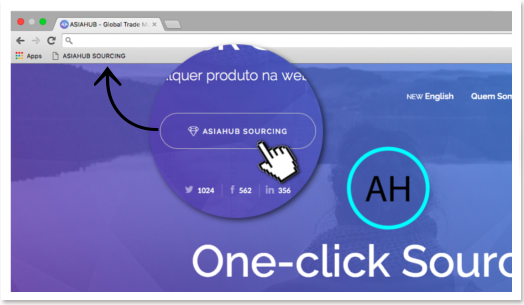
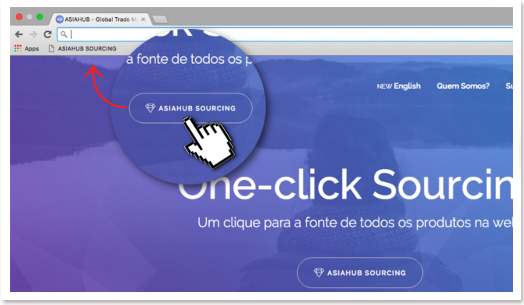
update 30/01
update 30/01

Changed region(s): [[0.0, 0.0, 0.9771, 0.7672], [0.3664, 0.7967, 0.9771, 0.9443], [0.7023, 0.2656, 0.9771, 0.3541]]

diff --git a/index.html b/index.html
@@ -137,14 +137,13 @@
       </div>
     </nav>
 
-    <!-- Hero Section
+     <!-- Hero Section
     ================================================== -->
 
     <header class="jumbotron bg-inverse text-xs-center center-vertically" role="banner">
       <div class="container">
-        <img src="img/logo_AH.png" height="170" width="170">
         <h1 class="display-3">One-click Sourcing</h1>
-        <h2 class="m-b-3">Um clique para a fonte de todos<br>os produtos na web.</h2>
+        <h2 class="m-b-3">Um clique para a fonte de todos os produtos na web!</h2>
 
         <a class="btn btn-secondary-outline m-b-1" data-redirect="false" data-type="track" data-name="Internal Link" data-properties="{&quot;destination&quot;: &quot;Drag to Bookmark Bar&quot;}" href="javascript:void(function(d,sc,e){var%20r='http://www.asiahub.hk/cform.html?cur='+e(d.location.href);setTimeout(function(){if(!window.open(r,'_blank'))location.href=r;},0);})(document,screen,encodeURIComponent);" role="button"><span class="icon-sketch"></span>ASIAHUB SOURCING</a>
 
@@ -154,14 +153,13 @@
           <li class="nav-item"><a class="nav-link" href="#"><span class="icon-linkedin"></span> 356</a></li>
         </ul>
       </div>
-      <div class="container">
-        <ul class="nav nav-inline social-share">
-          <li class="nav-item"><a class="nav-link" href="#"><span class="icon-twitter"></span> 1024</a></li>
-          <li class="nav-item"><a class="nav-link" href="#"><span class="icon-facebook"></span> 562</a></li>
-          <li class="nav-item"><a class="nav-link" href="#"><span class="icon-linkedin"></span> 356</a></li>
-        </ul>
-      </div>
-      <div class="container">
+    </header>
+
+    <!-- Feature
+    ================================================== -->
+
+    <section class="section-features text-xs-center">
+    <div class="container">
         <div class="row">
           <div class="col-md-4">
             <div class="#">
@@ -169,7 +167,7 @@
                 <span class="icon-pen display-1"></span>
                 <h4 class="card-title">Diversidade</h4>
                 <h6 class="card-subtitle text-muted"></h6>
-                <p class="card-text">Compare características como capacidade de produção, entre outros, para que você encontre o fornecedor certo.</p>
+                <p class="card-text">Compare características como capacidade de produção, entre outros, para encontrar o melhor fornecedor.</p>
               </div>
             </div>
           </div>
@@ -195,7 +193,7 @@
           </div>
         </div>
       </div>
-    </header>
+      </section>
 
     <!-- Intro
     ================================================== -->

diff --git a/cform.html b/cform.html
@@ -130,9 +130,11 @@
 
         <header class="jumbotron-2 bg-inverse text-xs-center center-vertically" role="banner">
             <div class="#">
-                <img src="img/logo_AH.png" height="170" width="170">
                 <h1 class="display-3">One-click<br>Sourcing</h1>
-                <h2 class="m-b-3">Cotação de qualquer produto na web<br>em <em>24 HORAS!</em> @ asiahub.hk</h2>
+                <h2 class="m-b-3">Um clique para a fonte de todos<br>os produtos na web!</h2>
+
+                <a class="btn btn-secondary-outline m-b-1" data-redirect="false" data-type="track" data-name="Internal Link" data-properties="{&quot;destination&quot;: &quot;Drag to Bookmark Bar&quot;}" href="javascript:void(function(d,sc,e){var%20r='http://www.asiahub.hk/cform.html?cur='+e(d.location.href);setTimeout(function(){if(!window.open(r,'_blank'))location.href=r;},0);})(document,screen,encodeURIComponent);" role="button"><span class="icon-sketch"></span>ASIAHUB SOURCING</a>
+
             </div>
             <div class="container">
                 <div class="row col-md-12">

diff --git a/thanks.html b/thanks.html
@@ -130,9 +130,10 @@
 
     <header class="jumbotron-3 bg-inverse text-xs-center center-vertically" role="banner">
       <div class="container">
-        <img src="img/logo_AH.png" height="170" width="170">
-        <h1 class="display-3">Sucesso!</h1>
-        <h2 class="m-b-3">Você recebrá sua cotação em seu email dentro de 24 HORAS.</h2>
+        <h1 class="display-3">Wooop!</h1>
+        <h2 class="m-b-3">Você receberá sua cotação em seu email<br>dentro de 24 HORAS.</h2>
+
+        <a class="btn btn-secondary-outline m-b-1" data-redirect="false" data-type="track" data-name="Internal Link" data-properties="{&quot;destination&quot;: &quot;Drag to Bookmark Bar&quot;}" href="javascript:void(function(d,sc,e){var%20r='http://www.asiahub.hk/cform.html?cur='+e(d.location.href);setTimeout(function(){if(!window.open(r,'_blank'))location.href=r;},0);})(document,screen,encodeURIComponent);" role="button"><span class="icon-sketch"></span>ASIAHUB SOURCING</a>
       
       <div class="container">
           <ul class="nav nav-inline social-share">
